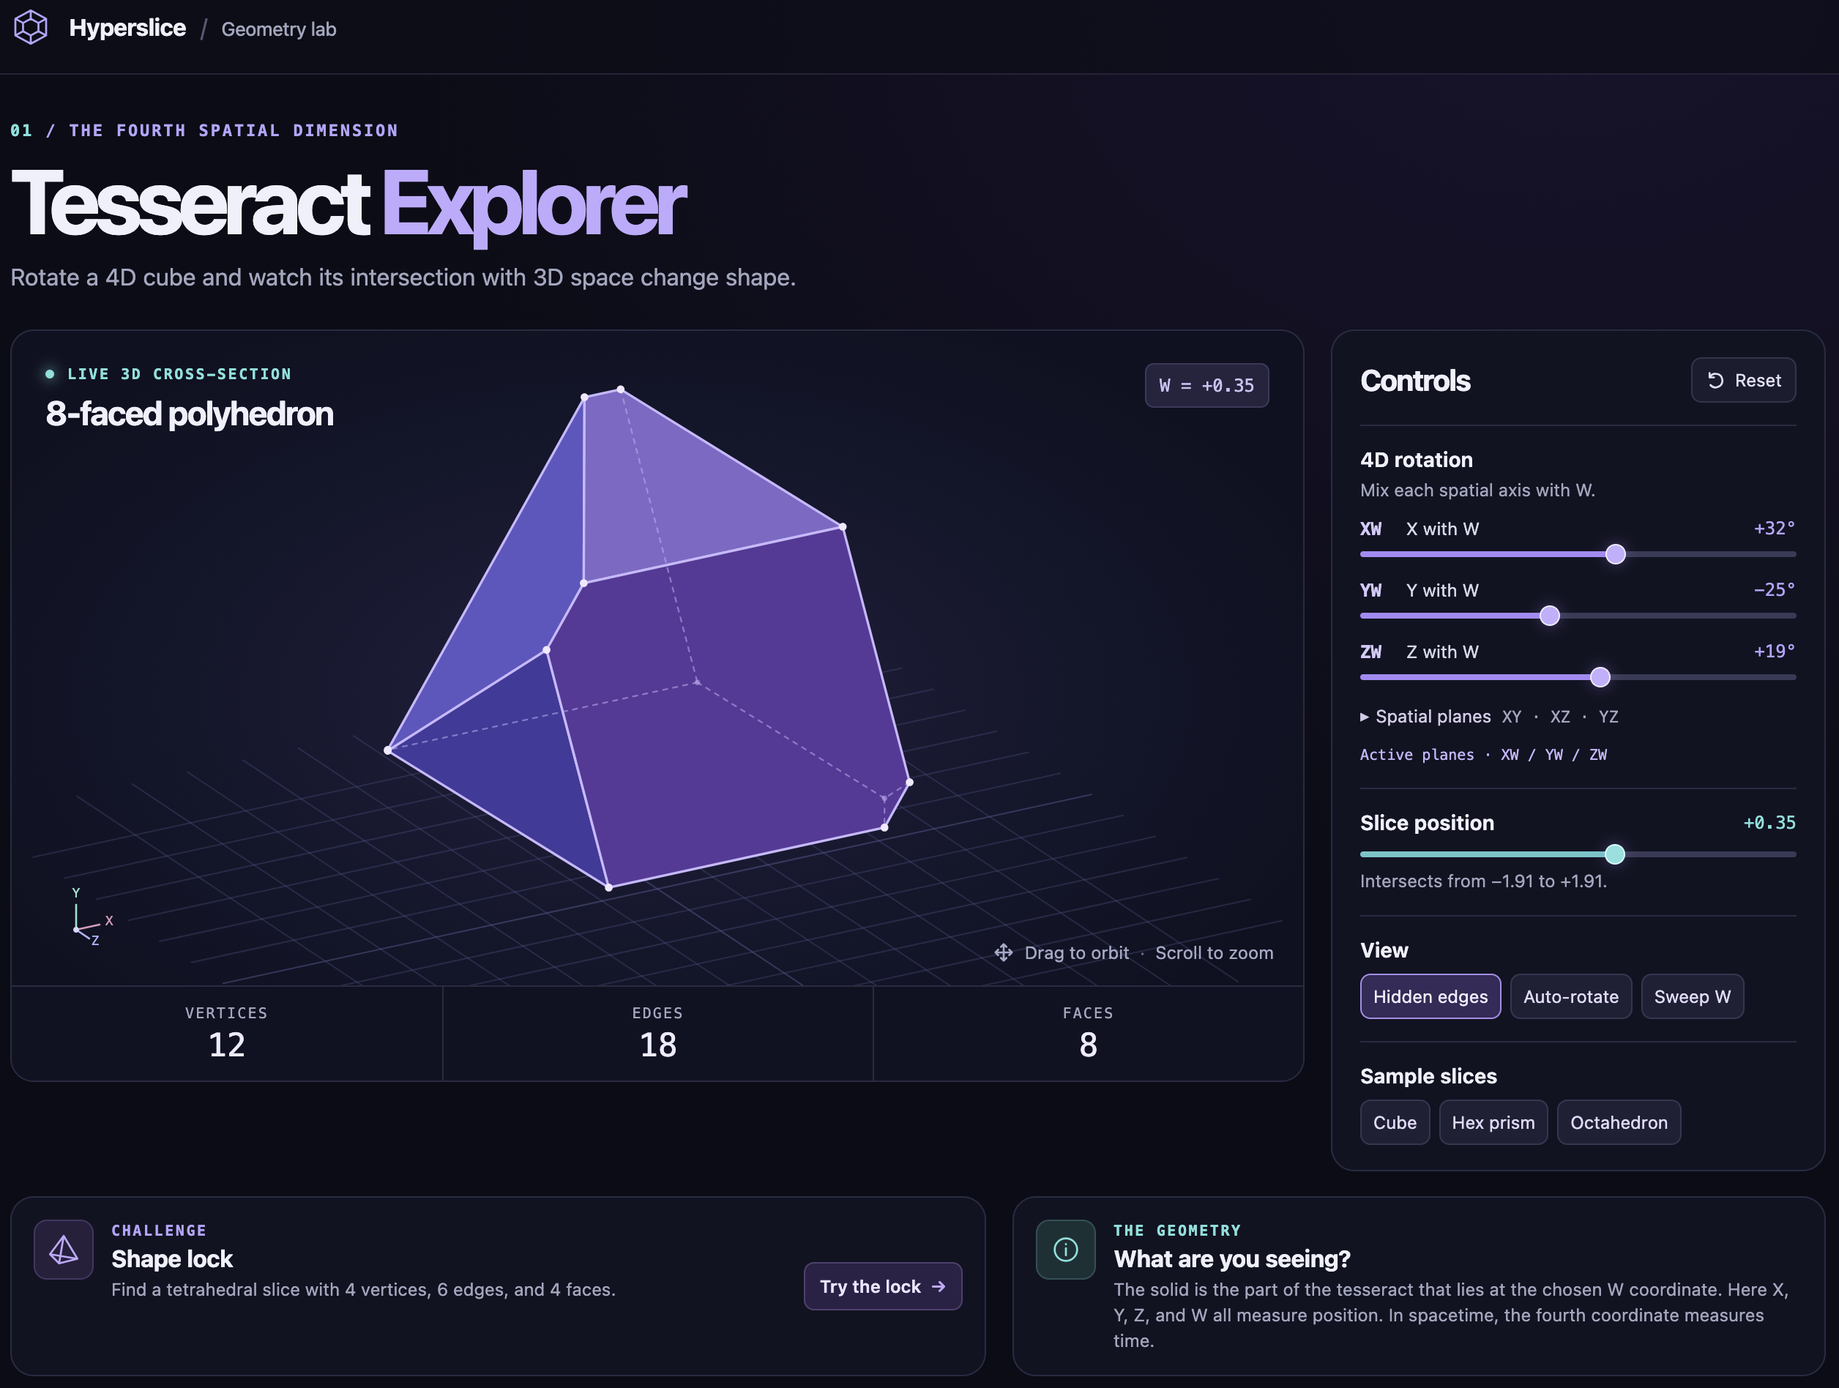
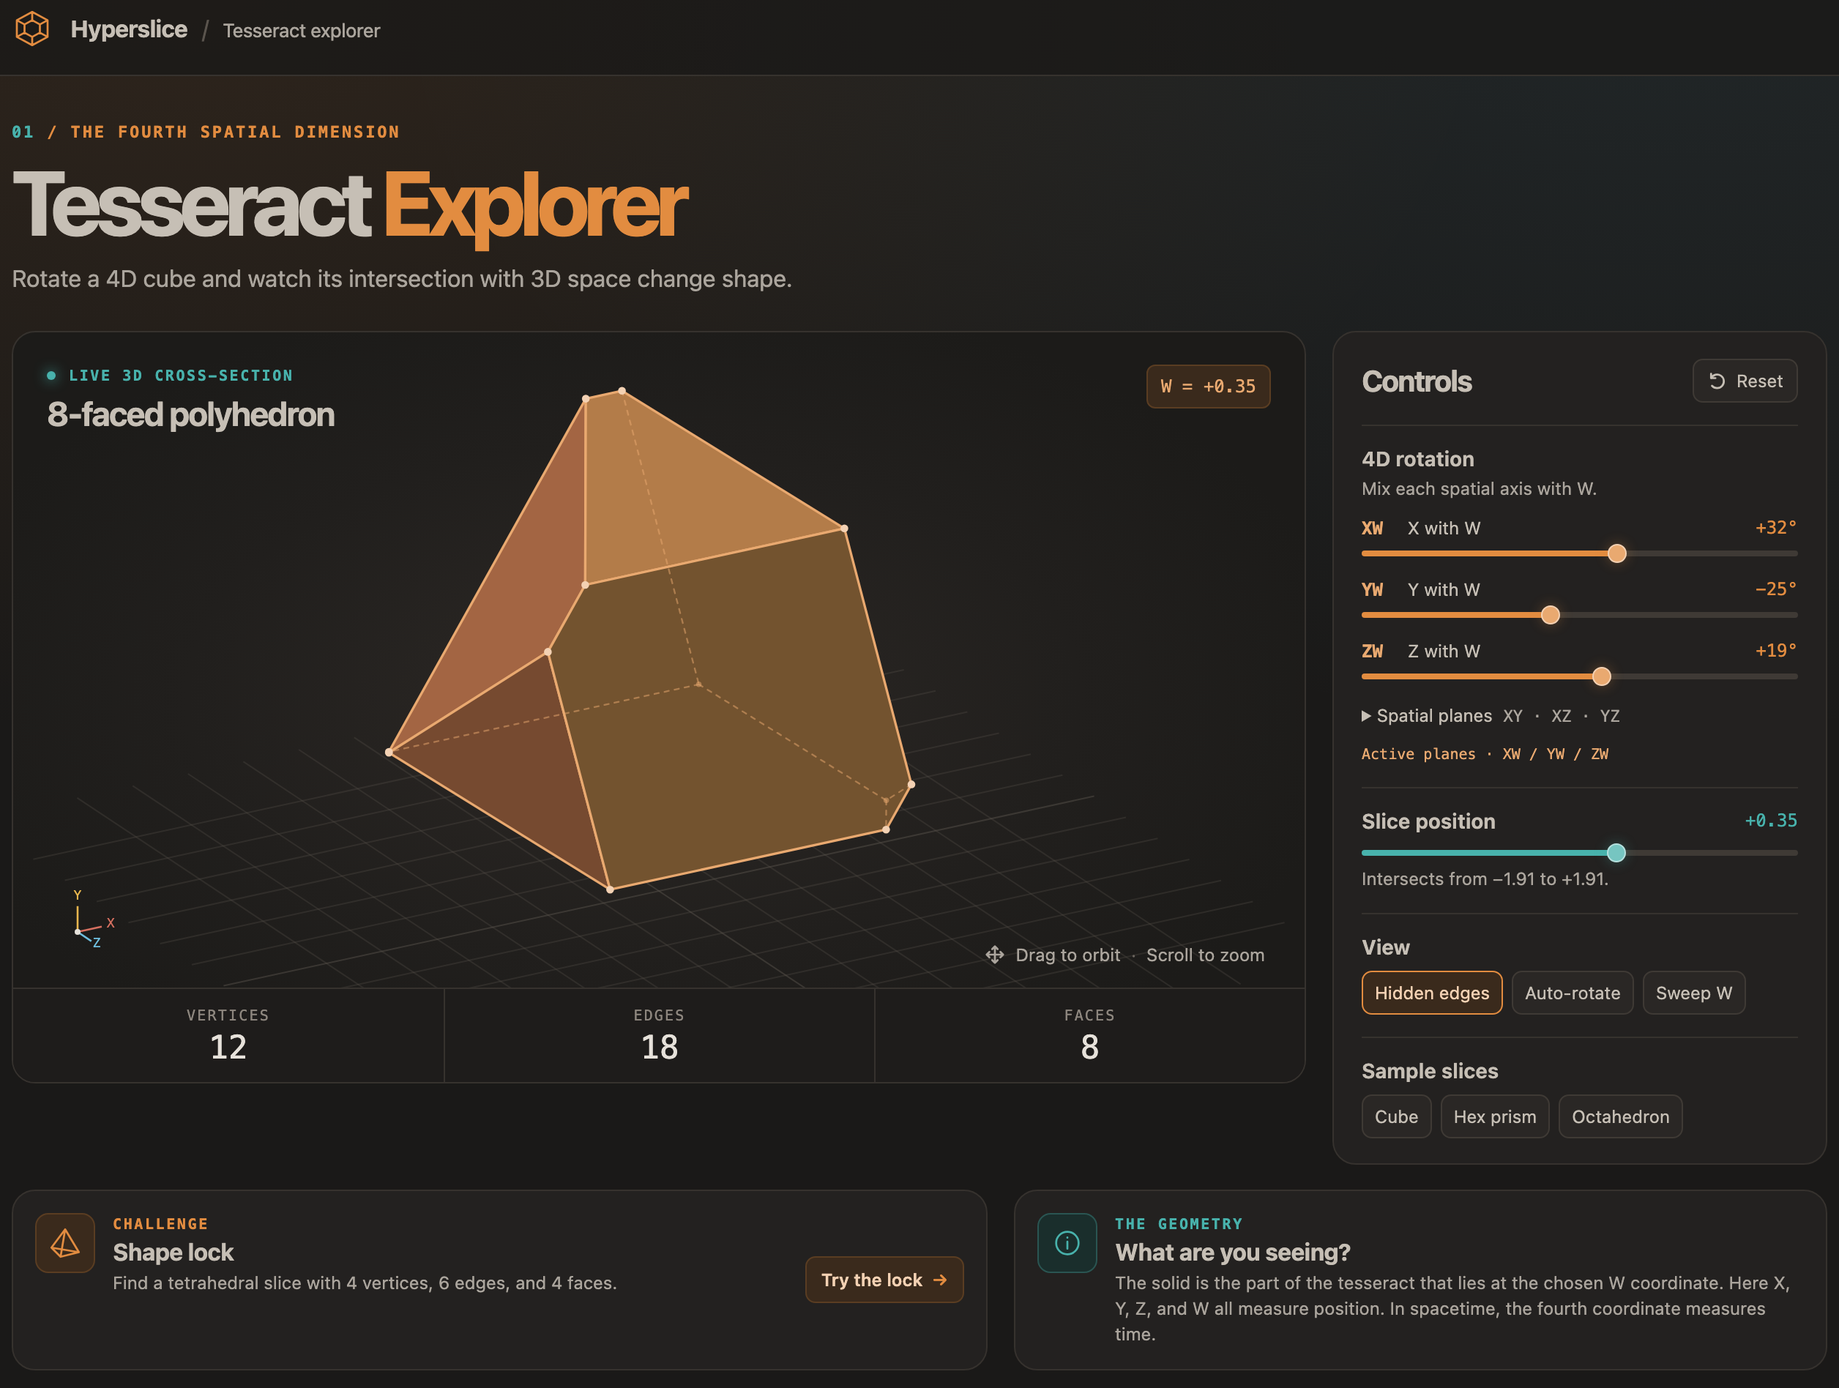
Update theme to Platonic Solids palette

diff --git a/src/styles.css b/src/styles.css
@@ -1,108 +1,118 @@
 :root {
   color-scheme: dark;
-  --ink: #eff0fb;
-  --muted: #a3a6bf;
-  --dim: #8185a0;
-  --line: #292b43;
-  --panel: #121322;
-  --accent: #b5a4ff;
-  --aqua: #78e1dc;
-  --gold: #f1c76b;
+  /* Palette shared with the Platonic Solids article on jeffkasunic.com. */
+  --bg: #1a1918;
+  --ink: #c6bfb5;
+  --muted: #aba59d;
+  --dim: #8d867e;
+  --line: #36322e;
+  --panel: #232120;
+  --accent: #e28c40;
+  --accent-core: #e9a970;
+  --accent-soft: #3a2a1c;
+  --accent-edge: #5a3d22;
+  --teal: #48b2ac;
+  --teal-core: #76c5c1;
+  --gold: #e8b64e;
+  --cyan: #6ebede;
+  --bone: #e6e1da;
+  --control: #2a2725;
+  --control-line: #3f3a35;
   --mono: ui-monospace, "SFMono-Regular", Consolas, "Liberation Mono", monospace;
   font-family: Inter, -apple-system, BlinkMacSystemFont, "Segoe UI", sans-serif;
 }
 *, *::before, *::after { box-sizing: border-box; }
-body { margin: 0; min-width: 280px; color: var(--ink); background: radial-gradient(ellipse at 76% 0%, #19132d 0%, transparent 47%), #0b0c16; }
+body { margin: 0; min-width: 280px; color: var(--ink); background: radial-gradient(900px 520px at 12% 0, color-mix(in srgb, var(--accent) 10%, transparent), transparent), radial-gradient(900px 520px at 90% 0, color-mix(in srgb, var(--cyan) 8%, transparent), transparent), var(--bg); background-repeat: no-repeat; }
 button, input, summary { font: inherit; }
 button { color: inherit; cursor: pointer; }
-button:focus-visible, input:focus-visible, summary:focus-visible, #view:focus-visible { outline: 2px solid var(--aqua); outline-offset: 4px; }
+button:focus-visible, input:focus-visible, summary:focus-visible, #view:focus-visible { outline: 2px solid var(--teal); outline-offset: 4px; }
 [hidden] { display: none !important; }
 .visually-hidden { position: absolute; width: 1px; height: 1px; margin: -1px; padding: 0; overflow: hidden; clip-path: inset(50%); white-space: nowrap; border: 0; }
 .shell { width: min(1240px, calc(100% - 80px)); margin-inline: auto; }
-.top { border-bottom: 1px solid #242438; background: #0c0d18aa; }
+.top { border-bottom: 1px solid var(--line); background: #1a1918cc; }
 .top-inner { height: 63px; display: flex; align-items: center; justify-content: space-between; gap: 12px; }
 .brand { display: flex; align-items: center; gap: 12px; font-weight: 700; font-size: 16px; letter-spacing: -.02em; }
 .brand svg { width: 28px; height: 28px; color: var(--accent); }
 svg path, svg circle { vector-effect: non-scaling-stroke; }
 .brand svg, button svg, .note-icon svg, .orbit-hint svg { fill: none; stroke: currentColor; stroke-width: 1.35; stroke-linecap: round; stroke-linejoin: round; flex: none; }
-.brand-divider { color: #595874; margin: 0 10px; font-weight: 400; }
+.brand-divider { color: #5a544d; margin: 0 10px; font-weight: 400; }
 .brand-caption { font-weight: 450; font-size: 13px; color: var(--muted); }
 .eyebrow, .slice-badge, .stats dt, .active { font-family: var(--mono); }
 .view-label i { width: 6px; height: 6px; display: inline-block; border-radius: 50%; background: currentColor; box-shadow: 0 0 9px currentColor; }
 .intro { padding: 30px 0 24px; }
 .eyebrow { font-size: 10px; font-weight: 650; letter-spacing: .13em; line-height: 1.5; color: var(--accent); margin: 0; }
 .intro .eyebrow { font-size: 11px; }
-.intro .eyebrow span { color: var(--aqua); }
+.intro .eyebrow span { color: var(--teal); }
 h1 { font-size: clamp(36px, 5.3vw, 62px); line-height: 1.04; margin: 7px 0 8px; letter-spacing: -.063em; font-weight: 730; }
-h1 em { color: #c0aaff; font-style: normal; }
+h1 em { color: var(--accent); font-style: normal; }
 .intro > p:last-child { color: var(--muted); font-size: 16px; margin: 0; line-height: 1.5; }
 .workbench { display: grid; grid-template-columns: minmax(0, 1fr) minmax(305px, 338px); gap: 18px; align-items: start; }
 .panel { border: 1px solid var(--line); border-radius: 16px; background: var(--panel); }
-.viewport { position: relative; overflow: hidden; display: flex; flex-direction: column; height: 514px; background: radial-gradient(ellipse at 48% 49%, #232040 0%, #14162c 47%, #101121 77%); }
+.viewport { position: relative; overflow: hidden; display: flex; flex-direction: column; height: 514px; background: radial-gradient(ellipse at 48% 49%, #2c2825 0%, #211f1d 47%, #1c1b19 77%); }
 .view-head { z-index: 1; position: absolute; inset: 22px 23px auto; display: flex; justify-content: space-between; align-items: flex-start; gap: 10px; pointer-events: none; }
-.view-label { display: flex; gap: 9px; align-items: center; color: var(--aqua); }
+.view-label { display: flex; gap: 9px; align-items: center; color: var(--teal); }
 .view-head h2 { margin: 5px 0 0; font-weight: 660; font-size: 23px; letter-spacing: -.035em; }
-.slice-badge { font-size: 12px; color: #cbc2f4; background: #26243e; border: 1px solid #3d385b; padding: 7px 9px; border-radius: 6px; white-space: nowrap; }
+.slice-badge { font-size: 12px; color: var(--accent-core); background: var(--accent-soft); border: 1px solid var(--accent-edge); padding: 7px 9px; border-radius: 6px; white-space: nowrap; }
 .stage { min-height: 0; flex: 1; position: relative; }
 #view { width: 100%; height: 100%; display: block; touch-action: none; cursor: grab; }
 #view:active { cursor: grabbing; }
 #view:focus-visible { outline-offset: -4px; }
-.empty { position: absolute; inset: 43% 0 auto; margin: 0; padding: 0 16px; text-align: center; font-size: 18px; color: #eee9ff; pointer-events: none; }
+.empty { position: absolute; inset: 43% 0 auto; margin: 0; padding: 0 16px; text-align: center; font-size: 18px; color: var(--bone); pointer-events: none; }
 .empty small { display: inline-block; margin-top: 6px; color: var(--muted); font-size: 13px; }
 .axis { position: absolute; bottom: 10px; left: 17px; width: 60px; height: 60px; pointer-events: none; }
-.orbit-hint { position: absolute; bottom: 15px; right: 20px; display: flex; align-items: center; gap: 7px; margin: 0; font-size: 12px; color: #a6a9c6; pointer-events: none; }
-.orbit-hint span { color: #6b7095; }
-.stats { z-index: 1; margin: 0; display: grid; grid-template-columns: repeat(3, 1fr); background: #111222; border-top: 1px solid var(--line); }
+.orbit-hint { position: absolute; bottom: 15px; right: 20px; display: flex; align-items: center; gap: 7px; margin: 0; font-size: 12px; color: var(--muted); pointer-events: none; }
+.orbit-hint span { color: #6b655e; }
+.stats { z-index: 1; margin: 0; display: grid; grid-template-columns: repeat(3, 1fr); background: #1e1c1b; border-top: 1px solid var(--line); }
 .stats div { display: flex; flex-direction: column; gap: 3px; align-items: center; padding: 12px 7px 11px; }
 .stats div + div { border-left: 1px solid var(--line); }
-.stats dt { color: #a5a7c2; font-size: 10px; text-transform: uppercase; letter-spacing: .11em; }
-.stats dd { margin: 0; font-family: var(--mono); font-variant-numeric: tabular-nums; font-size: 22px; color: #edebff; }
+.stats dt { color: var(--dim); font-size: 10px; text-transform: uppercase; letter-spacing: .11em; }
+.stats dd { margin: 0; font-family: var(--mono); font-variant-numeric: tabular-nums; font-size: 22px; color: var(--bone); }
 .controls { padding: 18px 19px 17px; min-height: 514px; }
 .control-head, .depth-head, .plane-label { display: flex; align-items: center; justify-content: space-between; gap: 8px; }
 .control-head h2 { margin: 0; font-size: 20px; letter-spacing: -.035em; }
-.reset { display: inline-flex; gap: 6px; align-items: center; background: #1b1c2e; border: 1px solid #34354d; border-radius: 7px; padding: 7px 9px; color: #e3dff9; font-size: 12px; }
+.reset { display: inline-flex; gap: 6px; align-items: center; background: var(--control); border: 1px solid var(--control-line); border-radius: 7px; padding: 7px 9px; color: var(--ink); font-size: 12px; }
 .control-group { margin-top: 15px; padding-top: 14px; border-top: 1px solid var(--line); }
 .control-group h3 { margin: 0; font-size: 14px; font-weight: 650; }
 .group-hint { margin: 4px 0 0; color: var(--muted); font-size: 12px; line-height: 1.4; }
 .plane-list { margin-top: 10px; display: grid; gap: 8px; }
 .plane-label { font-size: 12px; line-height: 16px; }
-.plane-label label { color: #d6d7eb; }
-.plane-label strong { display: inline-block; width: 28px; color: #d5caff; font: 650 12px var(--mono); }
+.plane-label label { color: var(--ink); }
+.plane-label strong { display: inline-block; width: 28px; color: var(--accent-core); font: 650 12px var(--mono); }
 .plane-label output, .depth-head output { color: var(--accent); font: 12px var(--mono); font-variant-numeric: tabular-nums; }
-input[type="range"] { --position: 50%; --track-color: #a58af7; display: block; width: 100%; margin: 1px 0 0; height: 17px; padding: 0; appearance: none; background: transparent; cursor: pointer; }
-input[type="range"]::-webkit-slider-runnable-track { height: 4px; border-radius: 5px; background: var(--window, linear-gradient(transparent, transparent)), linear-gradient(to right, var(--track-color) var(--position), #393a56 var(--position)); }
-input[type="range"]::-moz-range-track { height: 4px; border-radius: 5px; background: var(--window, linear-gradient(transparent, transparent)), linear-gradient(to right, var(--track-color) var(--position), #393a56 var(--position)); }
-input[type="range"]::-webkit-slider-thumb { appearance: none; width: 13px; height: 13px; margin-top: -4.5px; border: 1px solid #f0eaff; border-radius: 50%; background: #c3afff; box-shadow: 0 0 9px #9b83ff55; }
-input[type="range"]::-moz-range-thumb { width: 12px; height: 12px; border: 1px solid #f0eaff; border-radius: 50%; background: #c3afff; box-shadow: 0 0 9px #9b83ff55; }
-#depth { --track-color: #64c5ca; margin-top: 5px; }
-#depth::-webkit-slider-thumb { background: #86e1df; border-color: #ccfffd; }
-#depth::-moz-range-thumb { background: #86e1df; border-color: #ccfffd; }
-.depth-head output { color: var(--aqua); }
+input[type="range"] { --position: 50%; --track-color: var(--accent); display: block; width: 100%; margin: 1px 0 0; height: 17px; padding: 0; appearance: none; background: transparent; cursor: pointer; }
+input[type="range"]::-webkit-slider-runnable-track { height: 4px; border-radius: 5px; background: var(--window, linear-gradient(transparent, transparent)), linear-gradient(to right, var(--track-color) var(--position), var(--control-line) var(--position)); }
+input[type="range"]::-moz-range-track { height: 4px; border-radius: 5px; background: var(--window, linear-gradient(transparent, transparent)), linear-gradient(to right, var(--track-color) var(--position), var(--control-line) var(--position)); }
+input[type="range"]::-webkit-slider-thumb { appearance: none; width: 13px; height: 13px; margin-top: -4.5px; border: 1px solid #f3d1b3; border-radius: 50%; background: var(--accent-core); box-shadow: 0 0 9px #e28c4055; }
+input[type="range"]::-moz-range-thumb { width: 12px; height: 12px; border: 1px solid #f3d1b3; border-radius: 50%; background: var(--accent-core); box-shadow: 0 0 9px #e28c4055; }
+#depth { --track-color: var(--teal); margin-top: 5px; }
+#depth::-webkit-slider-thumb { background: var(--teal-core); border-color: #b6e0de; box-shadow: 0 0 9px #48b2ac55; }
+#depth::-moz-range-thumb { background: var(--teal-core); border-color: #b6e0de; box-shadow: 0 0 9px #48b2ac55; }
+.depth-head output { color: var(--teal); }
 details { margin-top: 8px; padding: 1px 0; }
-summary { cursor: pointer; color: #d3cbe9; font-size: 12px; line-height: 1.5; }
+summary { cursor: pointer; color: var(--ink); font-size: 12px; line-height: 1.5; }
 summary span { margin-left: 4px; color: var(--muted); font: 11px var(--mono); }
 .spatial-hint { margin-top: 6px; }
-.active { color: #c6b6ff; font-size: 10px; line-height: 1.5; margin: 9px 0 0; min-height: 15px; }
+.active { color: var(--accent-core); font-size: 10px; line-height: 1.5; margin: 9px 0 0; min-height: 15px; }
 .depth .group-hint { margin-top: 1px; }
 .preset-row { display: flex; gap: 6px; flex-wrap: wrap; margin-top: 8px; }
-.preset-row button { background: #202037; border: 1px solid #373653; border-radius: 7px; padding: 7px 8px; font-size: 12px; color: #e0dafa; }
-.preset-row button[aria-pressed="true"] { border-color: #a68eea; background: #362b59; color: #f2eaff; }
-.reset:hover, .preset-row button:hover, .challenge-button:hover { border-color: var(--accent); background: #352a51; }
+.preset-row button { background: var(--control); border: 1px solid var(--control-line); border-radius: 7px; padding: 7px 8px; font-size: 12px; color: var(--ink); }
+.preset-row button[aria-pressed="true"] { border-color: var(--accent); background: var(--accent-soft); color: #f3d1b3; }
+.reset:hover, .preset-row button:hover, .challenge-button:hover { border-color: var(--accent); background: var(--accent-soft); }
 .notes { display: grid; grid-template-columns: minmax(0, 1.2fr) minmax(0, 1fr); gap: 18px; margin: 17px 0 28px; }
 .note { display: flex; gap: 12px; align-items: flex-start; padding: 15px; }
-.note-icon { width: 41px; height: 41px; display: grid; place-items: center; flex: none; border-radius: 9px; background: #27203d; border: 1px solid #443663; color: #c0a8ff; }
-.info-icon { background: #193136; border-color: #2c5157; color: var(--aqua); }
+.note-icon { width: 41px; height: 41px; display: grid; place-items: center; flex: none; border-radius: 9px; background: var(--accent-soft); border: 1px solid var(--accent-edge); color: var(--accent); }
+.info-icon { background: #1a2e2c; border-color: #2a5552; color: var(--teal); }
 .note h2 { margin: 2px 0 3px; font-size: 16px; letter-spacing: -.015em; }
 .note-text { flex: 1; min-width: 0; }
 .note-text > p:not(.eyebrow) { margin: 0; color: var(--muted); font-size: 12px; line-height: 1.45; }
-.explanation .eyebrow { color: var(--aqua); }
-.challenge-button { flex: none; align-self: center; padding: 8px 10px; border: 1px solid #51406e; border-radius: 7px; background: #2c2247; color: #ece4ff; font-weight: 600; font-size: 12px; }
-.challenge-button span { margin-left: 3px; color: #c5abff; }
-.note-text > .challenge-status:not(:empty) { color: var(--aqua); margin-top: 5px; }
+.explanation .eyebrow { color: var(--teal); }
+.challenge-button { flex: none; align-self: center; padding: 8px 10px; border: 1px solid var(--accent-edge); border-radius: 7px; background: var(--accent-soft); color: #f3d1b3; font-weight: 600; font-size: 12px; }
+.challenge-button span { margin-left: 3px; color: var(--accent); }
+.note-text > .challenge-status:not(:empty) { color: var(--teal); margin-top: 5px; }
 .note-text > .challenge-status.closed { color: var(--gold); }
-.note-text > .challenge-score:not(:empty) { margin-top: 3px; font: 11px var(--mono); font-variant-numeric: tabular-nums; color: #c9cbe0; }
+.note-text > .challenge-score:not(:empty) { margin-top: 3px; font: 11px var(--mono); font-variant-numeric: tabular-nums; color: var(--ink); }
 .challenge-score b { color: var(--gold); font-weight: 600; }
-.challenge.unlocked { border-color: #569b9c; background: #14272f; }
+.challenge.unlocked { border-color: #2f7470; background: #1a2a28; }
 @media (max-width: 980px) {
   .shell { width: calc(100% - 44px); }
   .notes { grid-template-columns: 1fr 1fr; }

diff --git a/src/main.ts b/src/main.ts
@@ -277,13 +277,13 @@ function draw(): void {
       grid.push(`<path d="M${svgPoint(project(row[0]))}L${svgPoint(project(row[1]))}" opacity="${index === 0 ? 0.47 : 0.29}"/>`);
     }
   }
-  byId("grid").innerHTML = `<g stroke="#595e94" stroke-width="1" fill="none">${grid.join("")}</g>`;
+  byId("grid").innerHTML = `<g stroke="#5a544d" stroke-width="1" fill="none">${grid.join("")}</g>`;
 
   const points = geometry.points.map(project);
   const front = new Set<number>();
   const light = [-0.28, 0.67, 0.69];
   const open = state.unlocked;
-  const hue = open ? 175 : 254;
+  const hue = open ? 177 : 28;
   const fragments: string[] = [];
   const faceLayers = geometry.faces.map(({ indices, normal }) => ({
     indices,
@@ -291,7 +291,7 @@ function draw(): void {
     depth: indices.reduce((sum, index) => sum + points[index][2], 0) / indices.length,
   })).sort((a, b) => a.depth - b.depth);
 
-  const outline = open ? "#97f1df" : "#c9b8ff";
+  const outline = open ? "#76c5c1" : "#e9a970";
   // Edge key -> endpoints, and whether any face touching it faces the camera.
   const edgeVisibility = new Map<string, { a: number; b: number; visible: boolean }>();
   for (const { indices, normal } of faceLayers) {
@@ -305,8 +305,8 @@ function draw(): void {
     });
     if (!facing) continue;
     indices.forEach(index => front.add(index));
-    const shade = 36 + Math.max(0, dot(normal, light)) * 26;
-    fragments.push(`<polygon points="${indices.map(index => svgPoint(points[index])).join(" ")}" fill="hsl(${hue + normal[0] * 12} 46% ${shade}%)" stroke="${outline}" stroke-width="1.65" stroke-linejoin="round"/>`);
+    const shade = 27 + Math.max(0, dot(normal, light)) * 25;
+    fragments.push(`<polygon points="${indices.map(index => svgPoint(points[index])).join(" ")}" fill="hsl(${hue + normal[0] * 8} 42% ${shade}%)" stroke="${outline}" stroke-width="1.65" stroke-linejoin="round"/>`);
   }
   // Back edges go on top of the faces, dashed, the way technical drawings show them.
   if (state.hiddenEdges && geometry.dimension === 3) {
@@ -318,16 +318,16 @@ function draw(): void {
     });
   }
   if (geometry.dimension === 1) {
-    fragments.push(`<polyline points="${points.map(svgPoint).join(" ")}" fill="none" stroke="#c9b8ff" stroke-width="2"/>`);
+    fragments.push(`<polyline points="${points.map(svgPoint).join(" ")}" fill="none" stroke="${outline}" stroke-width="2"/>`);
   }
   if (geometry.dimension < 2) points.forEach((_, index) => front.add(index));
   for (const index of front) {
     const [x, y] = points[index];
-    fragments.push(`<circle cx="${x.toFixed(1)}" cy="${y.toFixed(1)}" r="2.65" fill="${open ? "#d1fff2" : "#f1e8ff"}"/>`);
+    fragments.push(`<circle cx="${x.toFixed(1)}" cy="${y.toFixed(1)}" r="2.65" fill="${open ? "#b6e0de" : "#f3d1b3"}"/>`);
   }
   byId("shape").innerHTML = fragments.join("");
 
-  const axisColors = ["#dd9abf", "#91e2ce", "#aeb3ff"];
+  const axisColors = ["#d67060", "#e8b64e", "#6ebede"];
   const axes = ["X", "Y", "Z"].map((label, index) => {
     const [x, y, z] = orient([0, 1, 2].map(axis => Number(axis === index)));
     const end = [27 + 19 * x, 32 - 19 * y];
@@ -336,7 +336,7 @@ function draw(): void {
   }).sort((a, b) => a.z - b.z);
   byId("axis").innerHTML = `<svg width="60" height="60" viewBox="0 0 60 60">${axes.map(({ label, color, end, text }) =>
     `<path d="M27,32L${svgPoint(end)}" stroke="${color}" stroke-width="1.3"/><text x="${text[0]}" y="${text[1]}" fill="${color}" text-anchor="middle" font-size="9" font-family="monospace">${label}</text>`
-  ).join("")}<circle cx="27" cy="32" r="2" fill="#ddd8f8"/></svg>`;
+  ).join("")}<circle cx="27" cy="32" r="2" fill="#e6e1da"/></svg>`;
 }
 
 // Any direct change to the slice position takes over from the W sweep.
